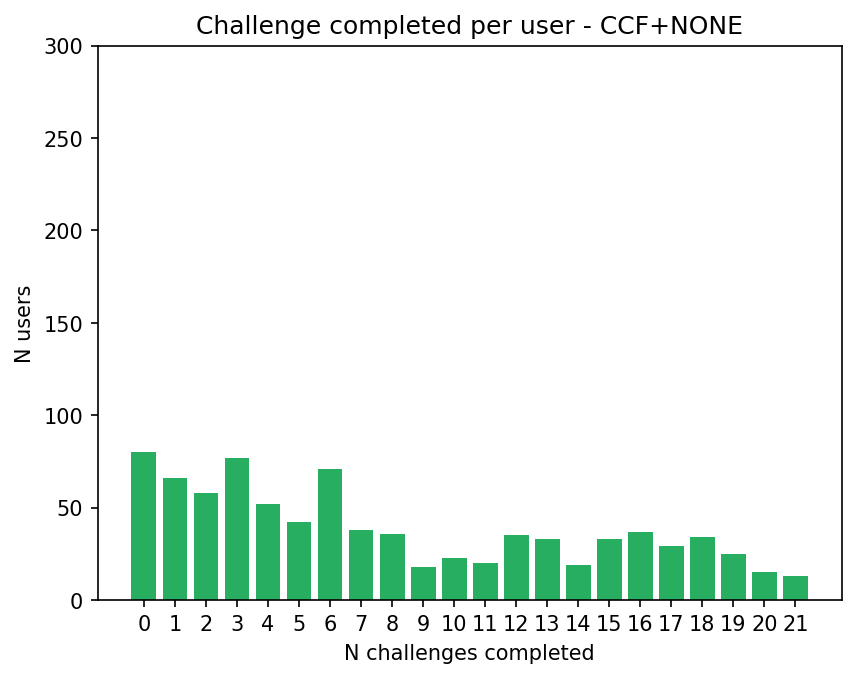
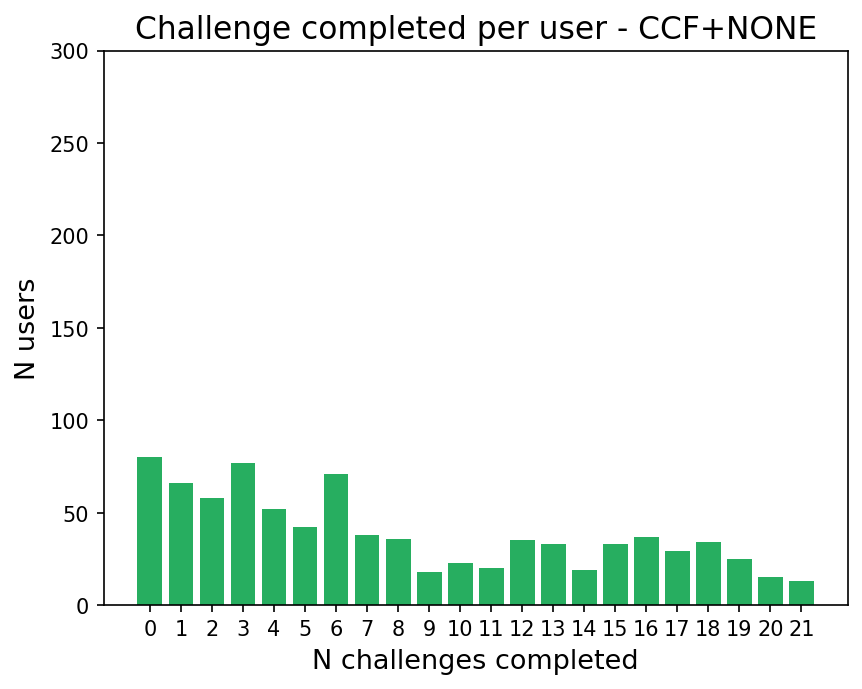
Add flightner test

Changed region(s): [[0.0, 0.0, 1.0, 0.9912]]

diff --git a/split-tests.py b/split-tests.py
@@ -10,29 +10,33 @@ import csv
 from statistics import mean, stdev
 import math
 from numpy.random import randn
-
+from scipy.stats import fligner, bartlett
 
 
 def printMannwhitneyu(experiment, control, set):
-  x = set[experiment]
-  y = set[control]
-  experimentMean = mean(fromHistToData(removeItem(x, 4)))
-  controlMean = mean(fromHistToData(removeItem(y, 4)))
+  x = removeItem(set[experiment], 4)
+  y = removeItem(set[control], 4)
+  dataX = fromHistToData(x)
+  dataY = fromHistToData(y)
 
-  result = stats.mannwhitneyu(fromHistToData(x), fromHistToData(y), alternative='two-sided')
+  experimentMean = mean(dataX)
+  controlMean = mean(dataY)
+
+  result = stats.mannwhitneyu(dataX, dataY, alternative='two-sided')
 
   if(result.pvalue < 0.05):
     if(experimentMean > controlMean):
-      print(experiment, '>', control, '&', result.pvalue, '&', 'Confirmed', '&', experiment, '\\\\ \\hline')
-      # print(experiment, 'is significantly larger than', control, 'p', result.pvalue)
+      #print(experiment, '--', control, '&', result.pvalue, '&', 'Accepted', '&', experiment, '\\\\ \\hline')
+      print(experiment, '>', control, 'p', round2dec(result.pvalue))
     else:
-      print(control, '>', experiment, '&', result.pvalue, '&', 'Confirmed', '&', control, '\\\\ \\hline')
-      # print(control, 'is significantly larger than', experiment, 'p', result.pvalue)
+      # print(control, '--', experiment, '&', round2dec(result.pvalue), '&', 'Accepted', '&', control, '\\\\ \\hline')
+      print(control, '>', experiment, 'p', round2dec(result.pvalue))
   else:
-    print(experiment, '>', control, '&', result.pvalue, '&', 'Rejected', '&', '-', '\\\\ \\hline')
+    largestMean = experiment if (experimentMean > controlMean) else control
+    #print(experiment, '--', control, '&', result.pvalue, '&', 'Rejected', '&', largestMean, '\\\\ \\hline')
+    print('No diff', experiment, 'and', control, 'p-value: ', round2dec(result.pvalue))
 
     pass
-    # print('No significant difference found between ', experiment, 'and', control, 'p-value: ', result.pvalue)
 
 
 
@@ -69,55 +73,51 @@ ing = {
   "NOT_LOCKED": combine(histSets[BA], histSets[AA])
 }
 
-# printMannwhitneyu("CHAINED", "NOT_CHAINED", ing)
-# printMannwhitneyu("LOCKED", "NOT_LOCKED", ing)
+#printMannwhitneyu("CHAINED", "NOT_CHAINED", ing)
+#printMannwhitneyu("LOCKED", "NOT_LOCKED", ing)
 
 
 
 
 def printTests ():
-  printMannwhitneyu(BB, AA, histSets)
-  printMannwhitneyu(BA, AB, histSets)
+  printMannwhitneyu(AA, BB, histSets)
+  printMannwhitneyu(AB, BA, histSets)
 
-  printMannwhitneyu(AB, AA, histSets)
-  printMannwhitneyu(AB, BB, histSets)
+  printMannwhitneyu(AA, AB, histSets)
+  printMannwhitneyu(BB, AB, histSets)
 
-  printMannwhitneyu(BA, AA, histSets)
-  printMannwhitneyu(BA, BB, histSets)
+  printMannwhitneyu(AA, BA, histSets)
+  printMannwhitneyu(BB, BA, histSets)
 
 printTests()
 
+
+def stats(set, proto):
+  set = removeItem(set, 4)
+  data = fromHistToData(set)
+  m = mean(data)
+  std = stdev(data)
+  print(proto, 'mean', round2dec(m), 'std', round2dec(std))
+
+# stats(histSets[AB], AB)
+# stats(histSets[AA], AA)
+# stats(histSets[BB], BB)
+# stats(histSets[BA], BA)
+
+
 # boxPlots([histSets[AA], histSets[BB], histSets[BA], histSets[AB]], [AA, BB, BA, AB])
 def printBarPlots():
-
   barPlot(histSets[AB], AB)
   barPlot(histSets[AA], AA)
   barPlot(histSets[BB], BB)
   barPlot(histSets[BA], BA)
 
-def printBarPlotsNoFriction():
-  barPlot(removeItem(histSets[AB], 4), AB)
-  barPlot(removeItem(histSets[AA], 4), AA)
-  barPlot(removeItem(histSets[BB], 4), BB)
-  barPlot(removeItem(histSets[BA], 4), BA)
-
-
-
-
-print(stats.levene(
-  fromHistToData(histSets[AB]),
-  fromHistToData(histSets[AA]),
-  fromHistToData(histSets[BB]),
-  fromHistToData(histSets[BA])
-))
-
 
 
 maxsum = 2000
 
-title = 'Drop-off for prototype - '
 
-
+print(fligner(histSets[AA], histSets[BB], histSets[AB],histSets[BA],))
 
 totalChallengeForProto = {
   AA: 919,
@@ -126,11 +126,24 @@ totalChallengeForProto = {
   BA: 986,
 }
 
+
 def plotCumSum (data, proto):
   cum = np.cumsum(data)
   max = totalChallengeForProto[proto]
-
+  title = 'Drop-off (-5.) for prototype - '
+  title = 'Drop-off for prototype - '
   barPlot(max - cum, proto, 986, title)
+
+
+def printBarPlotsNoFriction():
+  print(len(histSets[AB]))
+  print(len(removeItem(histSets[AB], 4)))
+  plotCumSum(removeItem(histSets[AB], 4), AB)
+  plotCumSum(removeItem(histSets[AA], 4), AA)
+  plotCumSum(removeItem(histSets[BB], 4), BB)
+  plotCumSum(removeItem(histSets[BA], 4), BA)
+
+# printBarPlotsNoFriction()
 
 #
 # barPlot(histSets[AB], AB)
@@ -138,58 +151,4 @@ def plotCumSum (data, proto):
 # barPlot(histSets[BB], BB)
 # barPlot(histSets[BA], BA)
 
-
-def calcCompletionRate():
-
-  challengesCompletions = []
-  totalUsers = 3796
-
-  with open('/Users/macbook/PycharmProjects/funnel-plotting/chalcompletions.csv', newline='') as csvfile:
-    spamreader = csv.reader(csvfile, delimiter=';')
-    for row in spamreader:
-      challengesCompletions.append(row)
-
-
-  for challenge in challengesCompletions:
-    cr = (int(challenge[1]) / totalUsers)
-    challenge.append(cr)
-    print(challenge[0], '&', challenge[1], '&', str(round2dec(cr * 100, 1)) + '\%', '&', '-' '\\\\ \\hline')
-
-  crOnly = []
-  nOnly = []
-
-  for challenge in challengesCompletions:
-    crOnly.append(challenge[2])
-    nOnly.append(int(challenge[1]))
-
-  cr = np.average(crOnly)
-
-  print('\\textbf{Average}', '&', '&', str(round2dec(cr * 100, 1)) + '\%', '&', '-')
-
-  nTotal = np.sum(nOnly)
-  print('nTotal:', nTotal)
-
-
-def normalDist(x):
-  shapiro_test = stats.shapiro(x)
-  print(shapiro_test.pvalue)
-
-data = 5 * randn(100) + 50
-
-def stats(sets, which):
-  data = fromHistToData(sets)
-  median = statistics.median(data)
-  m = round2dec(mean(data))
-  std = round2dec(stdev(data))
-  n = (len(data))
-  nchal = str(sum(data))
-  print(which, '&', n, '&', m, '(n:', nchal + ')', '&', std, '&', median, '\\\\ \hline')
-
-# stats(histSets[AB], AB)
-# stats(histSets[AA], AA)
-# stats(histSets[BB], BB)
-# stats(histSets[BA], BA)
-
-# hist(fromHistToData(abCounts))
-# print(statistics.stdev(fromHistToData(aaCounts)))
 

diff --git a/completion-rates.py b/completion-rates.py
@@ -1,0 +1,64 @@
+import csv
+import statistics
+from statistics import stdev
+
+import numpy as np
+from numpy import mean
+from numpy.matlib import randn
+
+from tools import round2dec, fromHistToData
+
+
+def calcCompletionRate():
+
+  challengesCompletions = []
+  totalUsers = 3796
+
+  with open('/Users/macbook/PycharmProjects/funnel-plotting/chalcompletions.csv', newline='') as csvfile:
+    spamreader = csv.reader(csvfile, delimiter=';')
+    for row in spamreader:
+      challengesCompletions.append(row)
+
+
+  for challenge in challengesCompletions:
+    cr = (int(challenge[1]) / totalUsers)
+    challenge.append(cr)
+    print(challenge[0], '&', challenge[1], '&', str(round2dec(cr * 100, 1)) + '\%', '&', '-' '\\\\ \\hline')
+
+  crOnly = []
+  nOnly = []
+
+  for challenge in challengesCompletions:
+    crOnly.append(challenge[2])
+    nOnly.append(int(challenge[1]))
+
+  cr = np.average(crOnly)
+
+  print('\\textbf{Average}', '&', '&', str(round2dec(cr * 100, 1)) + '\%', '&', '-')
+
+  nTotal = np.sum(nOnly)
+  print('nTotal:', nTotal)
+
+
+def normalDist(x):
+  shapiro_test = stats.shapiro(x)
+  print(shapiro_test.pvalue)
+
+
+def stats(sets, which):
+  data = fromHistToData(sets)
+  median = statistics.median(data)
+  m = round2dec(mean(data))
+  std = round2dec(stdev(data))
+  n = (len(data))
+  nchal = str(sum(data))
+  print(which, '&', n, '&', m, '(n:', nchal + ')', '&', std, '&', median, '\\\\ \hline')
+
+# stats(histSets[AB], AB)
+# stats(histSets[AA], AA)
+# stats(histSets[BB], BB)
+# stats(histSets[BA], BA)
+
+# hist(fromHistToData(abCounts))
+# print(statistics.stdev(fromHistToData(aaCounts)))
+

diff --git a/tools.py b/tools.py
@@ -29,8 +29,9 @@ def round2dec(number, round = 2):
 
 
 def removeItem(data, item):
-  del data[item]
-  return data
+  items = data.copy()
+  del items[item]
+  return items
 
 def boxPlots (histData, labels):
   data_to_plot = list(map(fromHistToData, histData))
@@ -96,9 +97,9 @@ def barPlot(counts, protoType, maxValue = 300, title ="Challenge completed per u
   #x_pos = [i for i, _ in enumerate(x)]
 
   plt.bar(x, counts, color=colors[protoType])
-  plt.xlabel("N challenges completed")
-  plt.ylabel("N users")
-  plt.title(title + protoType)
+  plt.xlabel("N challenges completed", fontsize=13)
+  plt.ylabel("N users", fontsize=13)
+  plt.title(title + protoType, fontsize=15)
 
   plt.xticks(x, x)
   plt.ylim(0, maxValue)
